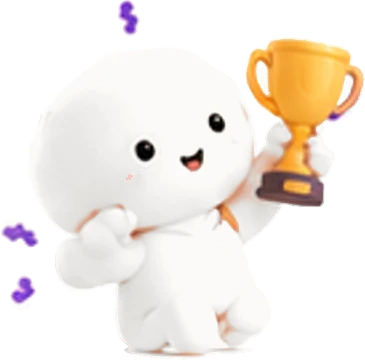
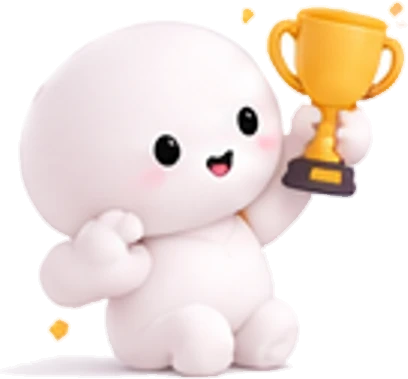
FE pictures from Farin's new white high-res sheet: 13 poses re-cut solid white (cut-sheet2.mjs), notification pictures repainted, SW v23 (Farin 2026-11-21: "THIS IS BETTER, they are white and higher resolution")

diff --git a/app/farin-sw.js b/app/farin-sw.js
@@ -1,4 +1,4 @@
-const CACHE = 'farin-english-v22';   // v22 2026-11-21: the roadmap box scrolls on its own, current card at its top, no earlier-cards bar; v21 2026-11-21: sharp 900 px FE p-cheer, welcome card 300 px; v20 2026-11-21: Home opens at the top, current card first under the earlier-cards bar; v19 2026-11-21: welcome card = FE cheering, 200 px; v18 2026-11-21: admin class rows keep the name column (actions shrink + wrap); v17 2026-11-21: Messages v2 (clean list, brand status pills, admin reply context + edit/delete);   // v16 2026-11-21: welcome card = FE medal + confetti; v15 2026-11-21: admin Group classes, gold frame + Offer sent tick; v14 2026-11-21: roadmap cards (purple/white/orange, no symbols, solid circles, page report card, Home opens on the current card, plan bubble off); v13 2026-11-21: onboarding redesign + welcome screen; v11 2026-11-20: FE white (art/fe, notif/*, icon-*.png repainted under the same names), only the clean pose set
+const CACHE = 'farin-english-v23';   // v22 2026-11-21: the roadmap box scrolls on its own, current card at its top, no earlier-cards bar; v21 2026-11-21: sharp 900 px FE p-cheer, welcome card 300 px; v20 2026-11-21: Home opens at the top, current card first under the earlier-cards bar; v19 2026-11-21: welcome card = FE cheering, 200 px; v18 2026-11-21: admin class rows keep the name column (actions shrink + wrap); v17 2026-11-21: Messages v2 (clean list, brand status pills, admin reply context + edit/delete);   // v16 2026-11-21: welcome card = FE medal + confetti; v15 2026-11-21: admin Group classes, gold frame + Offer sent tick; v14 2026-11-21: roadmap cards (purple/white/orange, no symbols, solid circles, page report card, Home opens on the current card, plan bubble off); v13 2026-11-21: onboarding redesign + welcome screen; v11 2026-11-20: FE white (art/fe, notif/*, icon-*.png repainted under the same names), only the clean pose set
 const CACHE_PREFIX = CACHE.replace(/\d+$/, '');   // 'farin-english-v' / 'farin-spanish-v'
 const PAGE_URL = self.registration.scope;
 /* Cozy Chores painted art (Trello 1m2Y0zdU, 8JAiLuV7): the game's plates and cut-outs are sibling files
